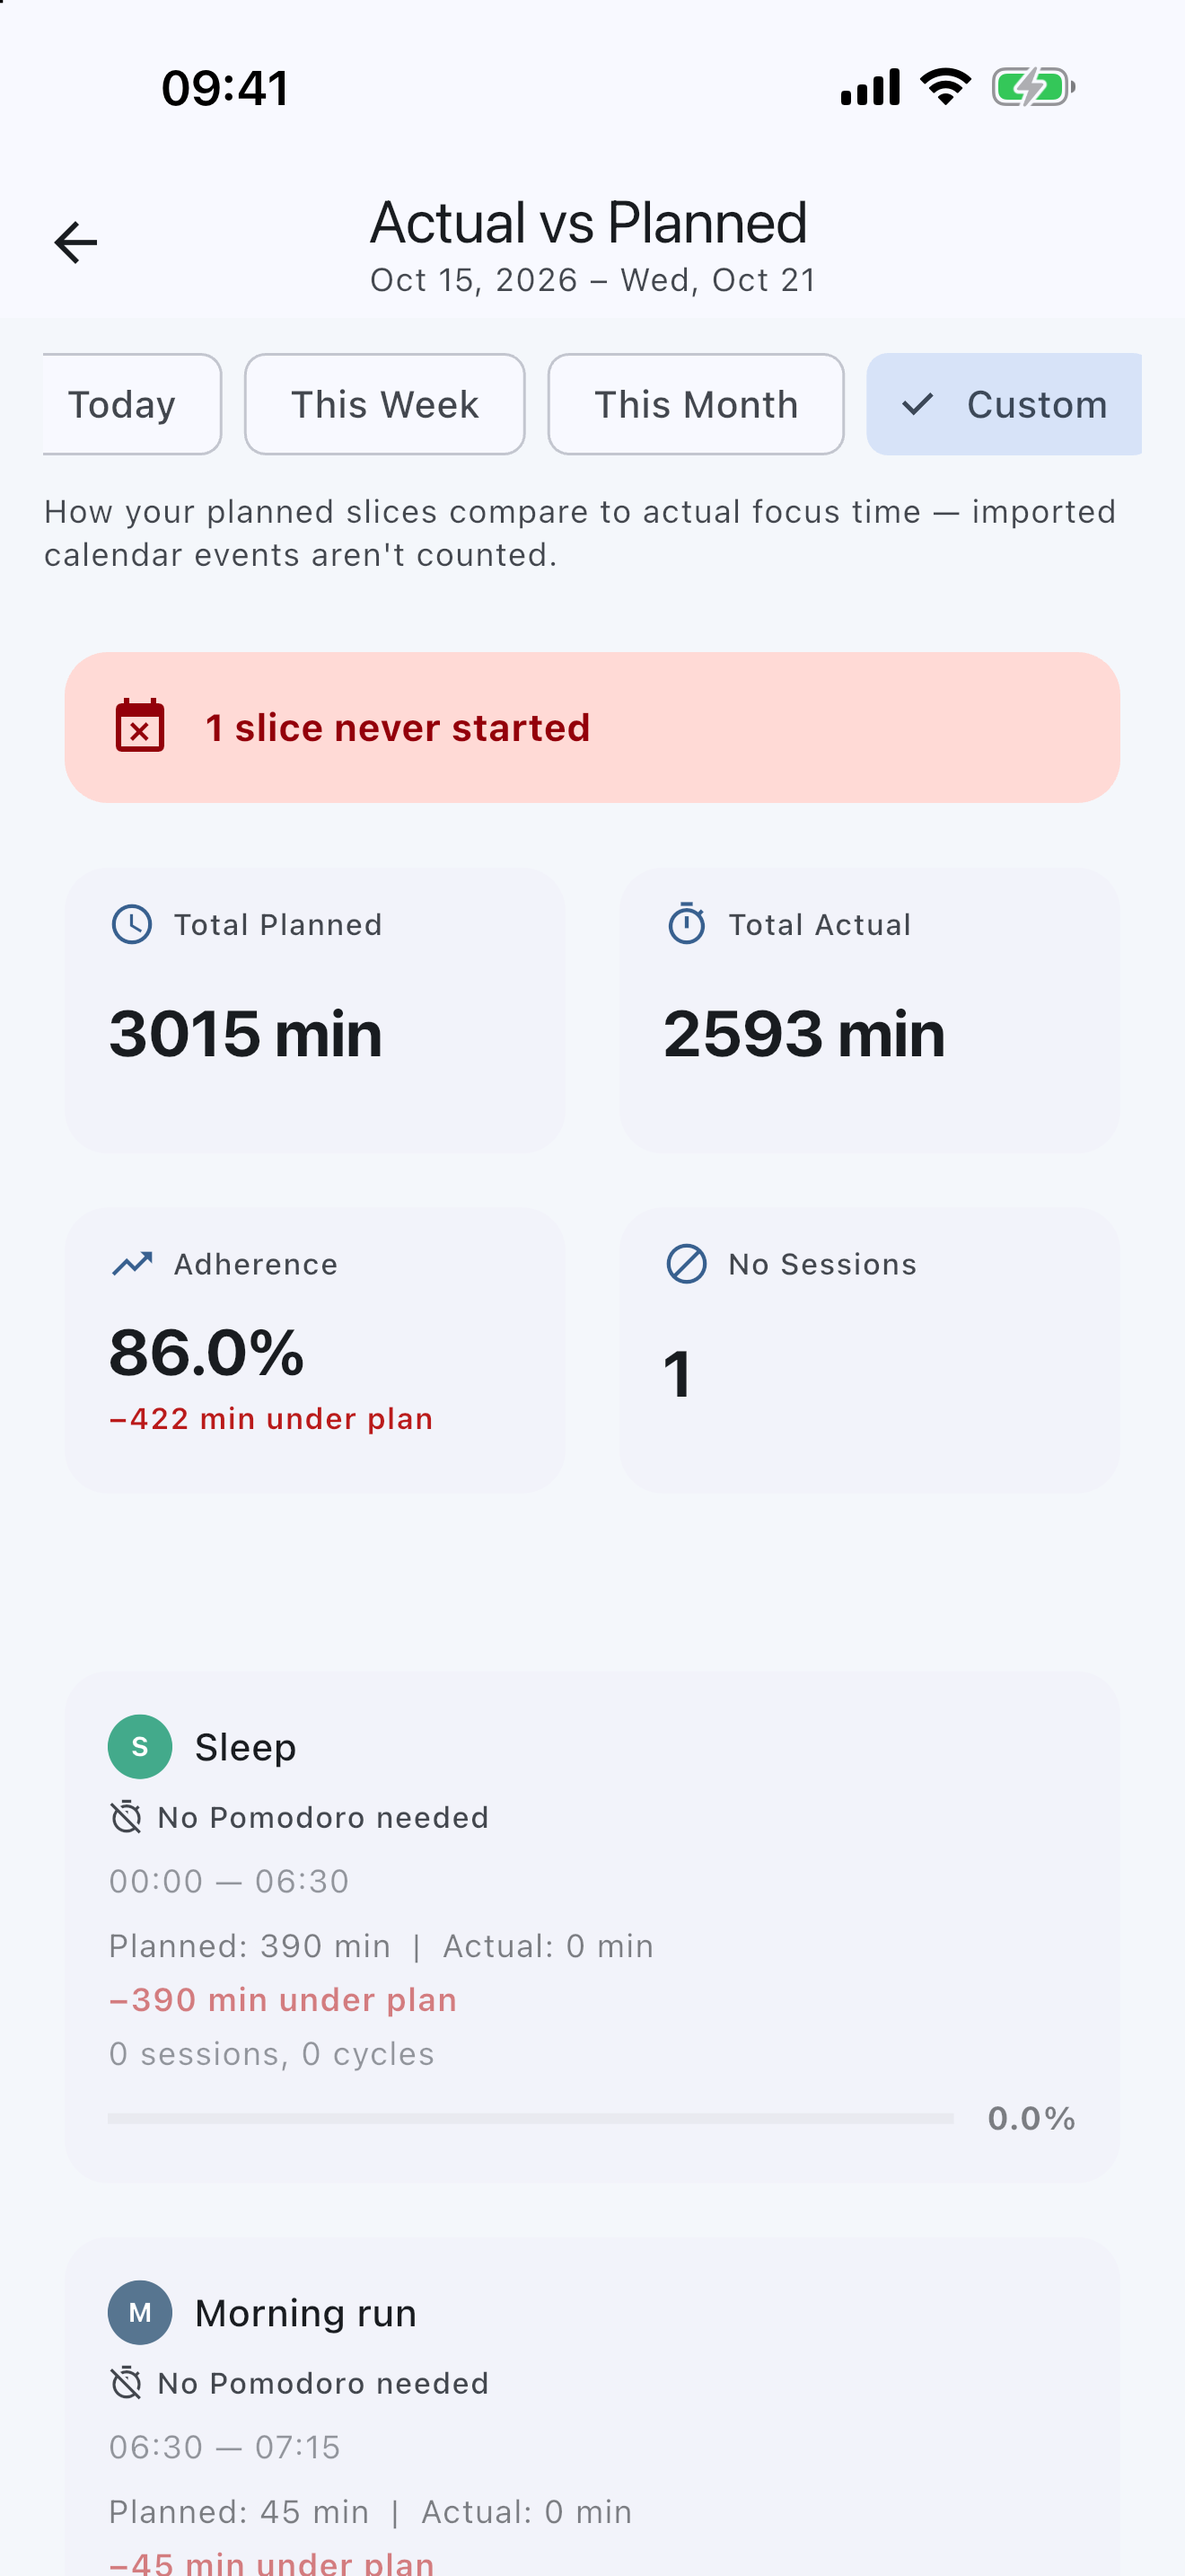
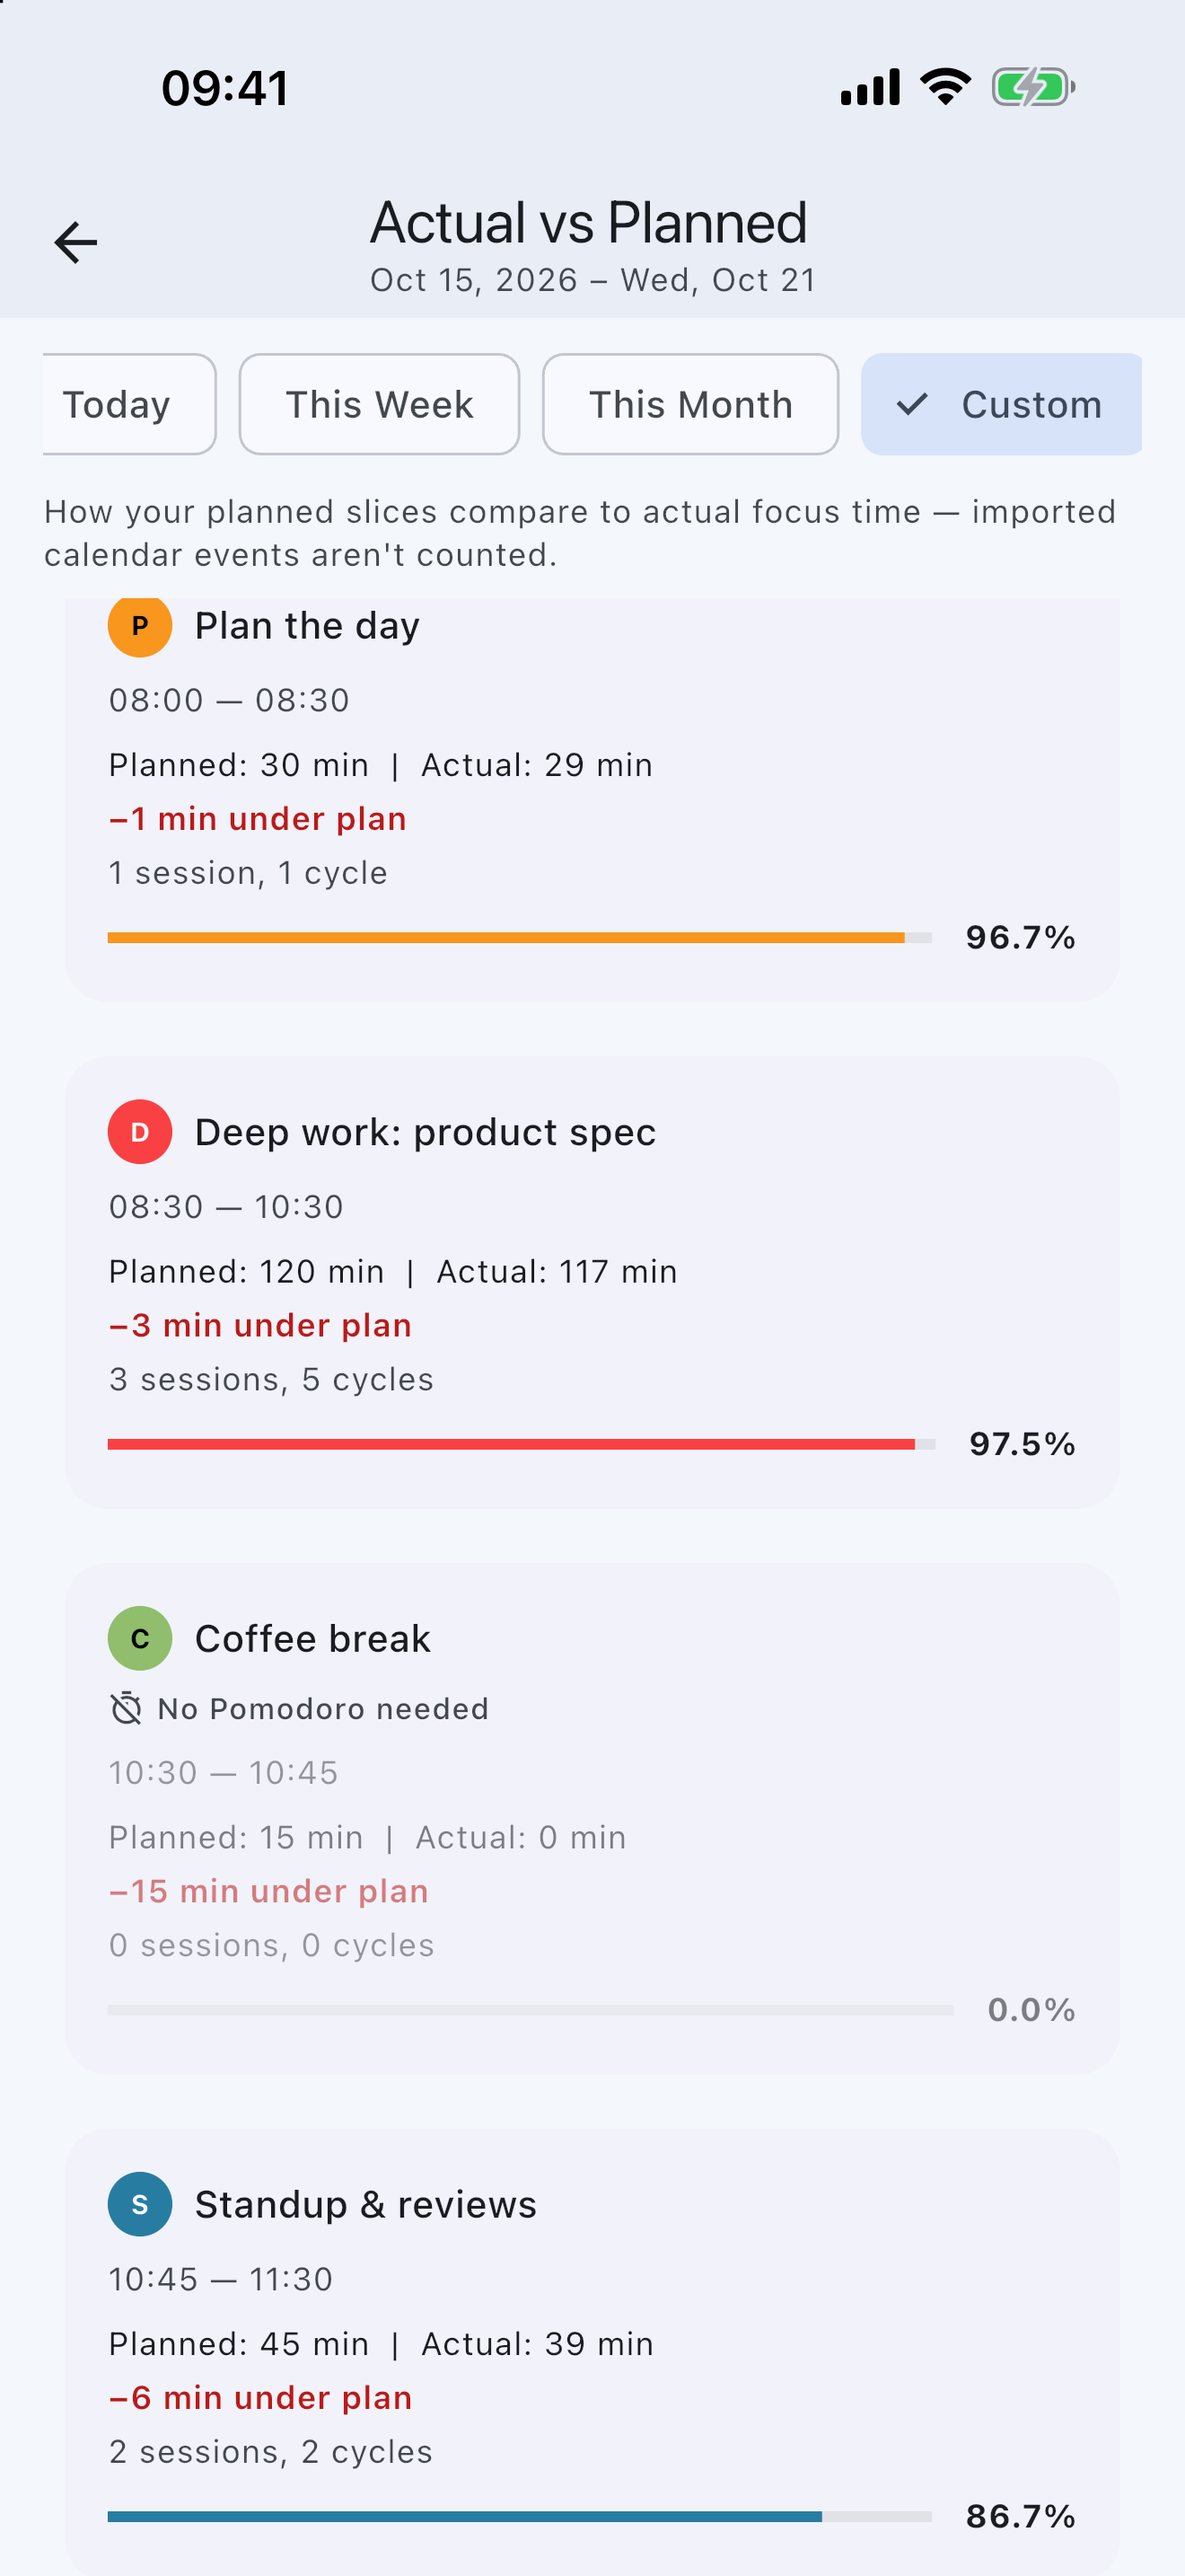
Retake v1.7.1 Actual vs Planned (macOS, iOS) and Session History (macOS)
No "never started" banner or cancelled sessions: Actual vs Planned opens on
the focus-tracked blocks of the last 7 full days, History on a full day of
completed sessions (SliceFocusFE#608).

diff --git a/screenshots/macos/v1.7.1/README.md b/screenshots/macos/v1.7.1/README.md
@@ -11,9 +11,9 @@ the dev backend with a seeded demo account.
 | 2 | `02-timer.png` | Focus with a Pomodoro timer | Running session on the current block, expanded timer (WORK, cycle 1/4) |
 | 3 | `03-settings-focus-shield.png` | Focus Shield: block the sites you choose | Settings, Focus Shield on: Safari extension on, 14 websites chosen |
 | 4 | `04-block-list.png` | Your list, your rules | Block list sheet: website field, Quick add presets, social and video sites |
-| 5 | `05-actual-vs-planned.png` | Your plan vs. what happened | Actual vs Planned over the last 7 full days, 86% adherence |
+| 5 | `05-actual-vs-planned.png` | Your plan vs. what happened | Actual vs Planned over the last 7 full days, opened on the first focus-tracked blocks (96–97% of plan) |
 | 6 | `06-analytics.png` | See where your focus goes | Analytics, this week: sessions, focus minutes, daily chart, by category |
-| 7 | `07-history.png` | Every session, on record | Session history by date, one day expanded |
+| 7 | `07-history.png` | Every session, on record | Session history (custom range), a full day of completed sessions expanded |
 | 8 | `08-templates.png` | Start from a template | Template picker with the starter templates |
 | 9 | `09-fill-gap.png` | Fill the gaps with a tap | Gap-fill sheet on a free slot of the day |
 

diff --git a/screenshots/ios/6.9/README.md b/screenshots/ios/6.9/README.md
@@ -10,6 +10,6 @@ against the dev backend with a seeded demo account.
 | 1 | `01-day-canvas.png` | Day canvas: a founder's weekday on the 24h pie, timeline below |
 | 2 | `02-timer.png` | Running session on the current block, expanded timer (WORK, cycle 1/4) |
 | 3 | `03-settings-focus-shield.png` | Settings, Focus Shield section and Pomodoro settings (the Screen Time picker does not run in the simulator, so nothing is selected) |
-| 4 | `04-actual-vs-planned.png` | Actual vs Planned over the last 7 full days, 86% adherence |
+| 4 | `04-actual-vs-planned.png` | Actual vs Planned over the last 7 full days, opened on the first focus-tracked blocks (96–97% of plan) |
 | 5 | `05-analytics.png` | Analytics, this week: sessions, focus minutes, daily chart, by category |
 | 6 | `06-templates.png` | Template picker with the starter templates (shot with the picker's provider-scope fix applied locally, see the macOS README) |
